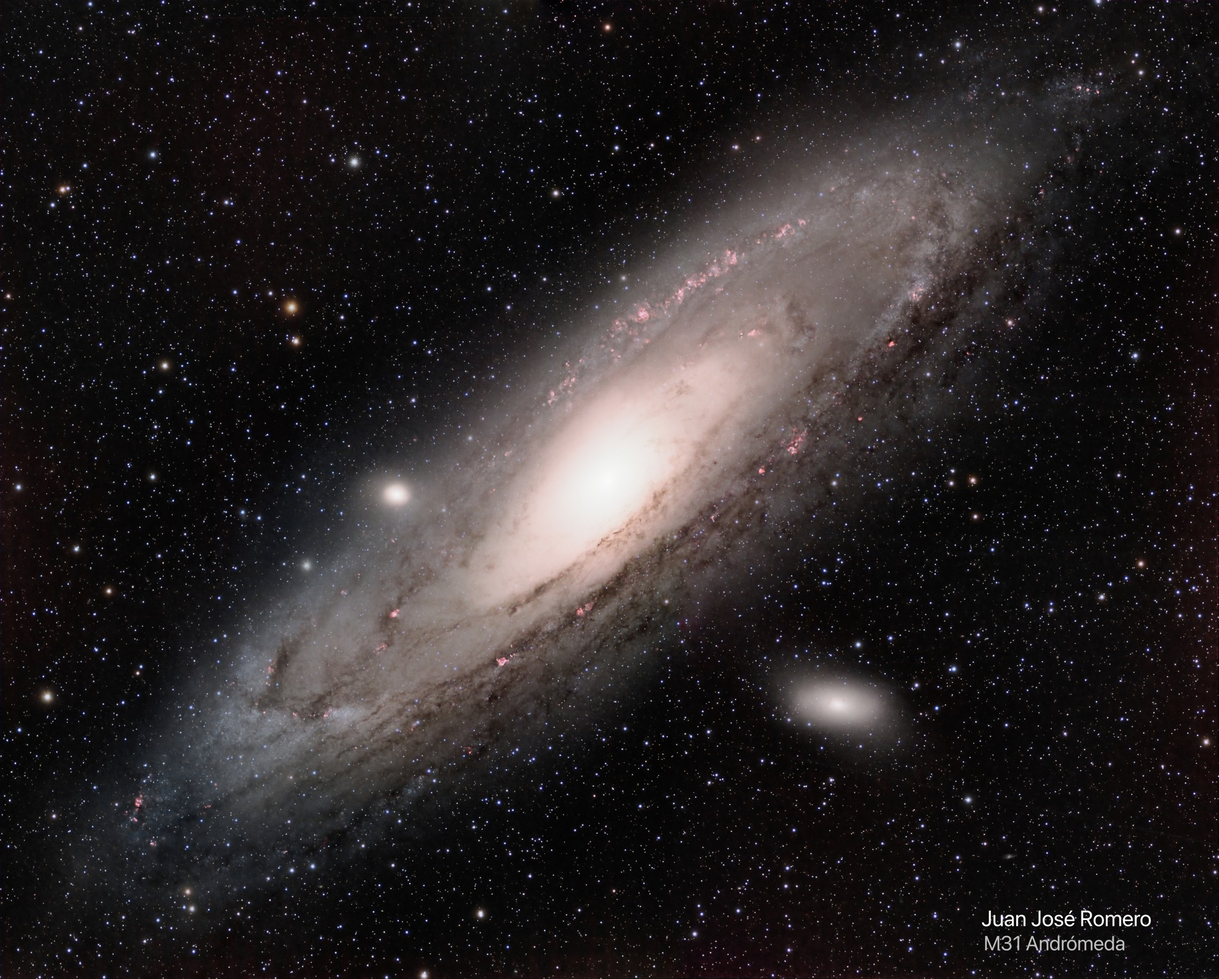
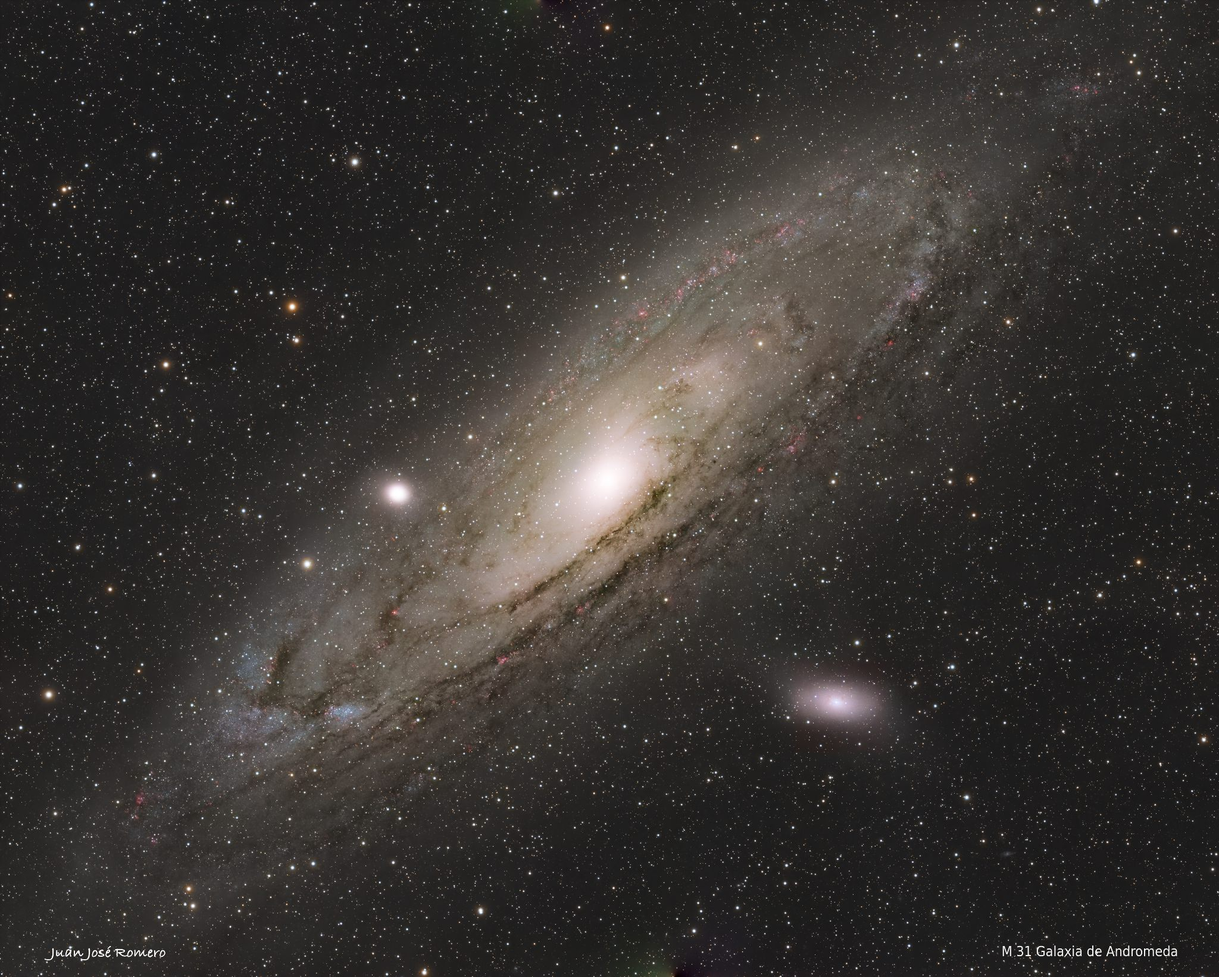
Añade corazones y actualiza la imagen de M31

diff --git a/feedback-worker/src/index.js b/feedback-worker/src/index.js
@@ -2,6 +2,7 @@ const TOOLS = new Set(['visibility', 'planning', 'analyser', 'my-night']);
 const VOTES = new Set(['up', 'down']);
 const REASONS = new Set(['confusing', 'missing', 'broken', 'other']);
 const LANGUAGES = new Set(['ca', 'es', 'en']);
+const ITEM_TYPES = new Set(['photo', 'article']);
 
 const json = (body, status = 200, headers = {}) => new Response(JSON.stringify(body), {
   status,
@@ -67,6 +68,17 @@ const validateFeedback = (input) => {
   if (input?.website) return { error: 'invalid_feedback' };
 
   return { value: { tool, vote, visitorId, language, reason, comment, pagePath } };
+};
+
+const validateReaction = (input) => {
+  const itemType = String(input?.itemType || '');
+  const itemId = String(input?.itemId || '').trim();
+  const visitorId = String(input?.visitorId || '');
+  if (!ITEM_TYPES.has(itemType) || !/^[a-zA-Z0-9][a-zA-Z0-9._()+-]{0,99}$/.test(itemId)) {
+    return { error: 'invalid_reaction' };
+  }
+  if (!/^[a-zA-Z0-9_-]{20,80}$/.test(visitorId)) return { error: 'invalid_visitor' };
+  return { value: { itemType, itemId, visitorId } };
 };
 
 const saveFeedback = async (request, env) => {
@@ -156,18 +168,93 @@ const listFeedback = async (request, env) => {
   });
 };
 
+const saveReaction = async (request, env) => {
+  const cors = corsHeaders(request, env);
+  if (!isAllowedOrigin(request, env)) return json({ error: 'origin_not_allowed' }, 403, cors);
+  if (!env.FEEDBACK_HASH_SECRET) return json({ error: 'service_not_configured' }, 503, cors);
+  let input;
+  try { input = await readBody(request); }
+  catch (error) { return json({ error: error.message === 'payload_too_large' ? error.message : 'invalid_json' }, 400, cors); }
+  const validated = validateReaction(input);
+  if (validated.error) return json({ error: validated.error }, 400, cors);
+  const value = validated.value;
+  const visitorHash = await hashVisitor(value.visitorId, env.FEEDBACK_HASH_SECRET);
+  const now = new Date().toISOString();
+  await env.FEEDBACK_DB.prepare(`
+    INSERT INTO reactions (visitor_hash, item_type, item_id, created_at, updated_at)
+    VALUES (?, ?, ?, ?, ?)
+    ON CONFLICT(visitor_hash, item_type, item_id) DO UPDATE SET
+      deleted_at = NULL, updated_at = excluded.updated_at
+  `).bind(visitorHash, value.itemType, value.itemId, now, now).run();
+  return json({ ok: true, updatedAt: now }, 200, cors);
+};
+
+const withdrawReaction = async (request, env) => {
+  const cors = corsHeaders(request, env);
+  if (!isAllowedOrigin(request, env)) return json({ error: 'origin_not_allowed' }, 403, cors);
+  if (!env.FEEDBACK_HASH_SECRET) return json({ error: 'service_not_configured' }, 503, cors);
+  let input;
+  try { input = await readBody(request); }
+  catch (error) { return json({ error: error.message === 'payload_too_large' ? error.message : 'invalid_json' }, 400, cors); }
+  const validated = validateReaction(input);
+  if (validated.error) return json({ error: validated.error }, 400, cors);
+  const value = validated.value;
+  const visitorHash = await hashVisitor(value.visitorId, env.FEEDBACK_HASH_SECRET);
+  const now = new Date().toISOString();
+  await env.FEEDBACK_DB.prepare(`
+    UPDATE reactions SET deleted_at = ?, updated_at = ?
+    WHERE visitor_hash = ? AND item_type = ? AND item_id = ?
+  `).bind(now, now, visitorHash, value.itemType, value.itemId).run();
+  return json({ ok: true, updatedAt: now }, 200, cors);
+};
+
+const reactionCounts = async (request, env) => {
+  const cors = corsHeaders(request, env);
+  if (!isAllowedOrigin(request, env)) return json({ error: 'origin_not_allowed' }, 403, cors);
+  const url = new URL(request.url);
+  const rawItems = (url.searchParams.get('items') || '').split(',').filter(Boolean).slice(0, 200);
+  const items = rawItems.map((item) => {
+    const separator = item.indexOf(':');
+    return { itemType: item.slice(0, separator), itemId: item.slice(separator + 1), key: item };
+  }).filter(({ itemType, itemId }) => ITEM_TYPES.has(itemType) && /^[a-zA-Z0-9][a-zA-Z0-9._()+-]{0,99}$/.test(itemId));
+  if (!items.length) return json({ counts: {} }, 200, { ...cors, 'cache-control': 'public, max-age=30' });
+  const where = items.map(() => '(item_type = ? AND item_id = ?)').join(' OR ');
+  const bindings = items.flatMap(({ itemType, itemId }) => [itemType, itemId]);
+  const { results = [] } = await env.FEEDBACK_DB.prepare(`
+    SELECT item_type, item_id, COUNT(*) AS total FROM reactions
+    WHERE deleted_at IS NULL AND (${where}) GROUP BY item_type, item_id
+  `).bind(...bindings).all();
+  const counts = Object.fromEntries(items.map(({ key }) => [key, 0]));
+  results.forEach((row) => { counts[`${row.item_type}:${row.item_id}`] = Number(row.total); });
+  return json({ counts }, 200, { ...cors, 'cache-control': 'public, max-age=30' });
+};
+
+const listReactions = async (request, env) => {
+  const authorization = request.headers.get('authorization') || '';
+  const token = authorization.startsWith('Bearer ') ? authorization.slice(7) : '';
+  if (!await secureEqual(token, env.FEEDBACK_ADMIN_TOKEN)) {
+    return json({ error: 'unauthorized' }, 401, { 'cache-control': 'no-store' });
+  }
+  const after = new URL(request.url).searchParams.get('after') || '';
+  const statement = after
+    ? env.FEEDBACK_DB.prepare('SELECT id, item_type, item_id, created_at, updated_at, deleted_at FROM reactions WHERE updated_at > ? ORDER BY updated_at ASC LIMIT 5000').bind(after)
+    : env.FEEDBACK_DB.prepare('SELECT id, item_type, item_id, created_at, updated_at, deleted_at FROM reactions ORDER BY updated_at ASC LIMIT 5000');
+  const { results = [] } = await statement.all();
+  return json({ reactions: results, fetchedAt: new Date().toISOString() }, 200, { 'cache-control': 'no-store' });
+};
+
 export default {
   async fetch(request, env) {
     const url = new URL(request.url);
 
-    if (request.method === 'OPTIONS' && url.pathname === '/v1/feedback') {
+    if (request.method === 'OPTIONS' && (url.pathname === '/v1/feedback' || url.pathname === '/v1/reactions')) {
       const cors = corsHeaders(request, env);
       if (!isAllowedOrigin(request, env)) return new Response(null, { status: 403 });
       return new Response(null, {
         status: 204,
         headers: {
           ...cors,
-          'access-control-allow-methods': 'POST, DELETE, OPTIONS',
+          'access-control-allow-methods': 'GET, POST, DELETE, OPTIONS',
           'access-control-allow-headers': 'content-type',
           'access-control-max-age': '86400',
         },
@@ -176,9 +263,14 @@ export default {
     if (request.method === 'POST' && url.pathname === '/v1/feedback') return saveFeedback(request, env);
     if (request.method === 'DELETE' && url.pathname === '/v1/feedback') return withdrawFeedback(request, env);
     if (request.method === 'GET' && url.pathname === '/v1/feedback') return listFeedback(request, env);
+    if (request.method === 'POST' && url.pathname === '/v1/reactions') return saveReaction(request, env);
+    if (request.method === 'DELETE' && url.pathname === '/v1/reactions') return withdrawReaction(request, env);
+    if (request.method === 'GET' && url.pathname === '/v1/reactions') {
+      return request.headers.has('authorization') ? listReactions(request, env) : reactionCounts(request, env);
+    }
     if (request.method === 'GET' && url.pathname === '/health') return json({ ok: true });
     return json({ error: 'not_found' }, 404);
   },
 };
 
-export { hashVisitor, validateFeedback };
+export { hashVisitor, validateFeedback, validateReaction };

diff --git a/src/styles/global.css b/src/styles/global.css
@@ -182,6 +182,16 @@ main { padding: 1rem 0 4rem; }
 .gallery-theme .photo-card h2, .gallery-theme .page-heading h1 { color: var(--gallery-tone-soft); }
 .photo-card p { margin: .25rem 0; color: var(--color-muted); font-size: .9rem; }
 .photo-card b { color: var(--color-text); }
+.reaction-heart { position: absolute; z-index: 5; top: .45rem; right: .45rem; transition: opacity .14s ease, visibility .14s ease; }
+.reaction-heart button { display: inline-flex; min-width: 2.65rem; height: 1.7rem; align-items: center; justify-content: center; gap: .25rem; padding: .18rem .42rem; border: 1px solid rgba(255,255,255,.34); border-radius: 999px; background: rgba(5,8,14,.72); box-shadow: 0 4px 12px rgba(0,0,0,.26); color: #f3edf0; font: 700 .62rem var(--font-technical); cursor: pointer; backdrop-filter: blur(7px); transition: transform .16s ease, border-color .16s ease, background .16s ease, color .16s ease; }
+.reaction-heart button:hover, .reaction-heart button:focus-visible { border-color: #f28bac; background: rgba(40,12,25,.9); color: #ffb2c9; transform: translateY(-1px); }
+.reaction-heart button[aria-pressed="true"] { border-color: #f06292; background: rgba(93,18,49,.9); color: #ff8fb2; }
+.reaction-heart button:disabled { cursor: wait; opacity: .68; }
+.reaction-heart svg { width: .82rem; height: .82rem; fill: transparent; stroke: currentColor; stroke-linecap: round; stroke-linejoin: round; stroke-width: 1.8; transition: fill .16s ease, transform .16s ease; }
+.reaction-heart button[aria-pressed="true"] svg { fill: currentColor; transform: scale(1.08); }
+.reaction-heart--inline { position: static; display: inline-flex; margin-top: .75rem; }
+.reaction-heart--inline button { background: rgba(24,31,46,.82); }
+body.is-image-lightbox-open .reaction-heart { opacity: 0; pointer-events: none; visibility: hidden; }
 
 .page-heading { margin: .5rem 0 2rem; text-align: center; }
 .page-heading h1 { margin: 0; color: var(--color-accent); font-size: clamp(2rem, 4vw, 2.8rem); }
@@ -405,7 +415,7 @@ main { padding: 1rem 0 4rem; }
 .articles-index-nav a:hover,
 .articles-index-nav a:focus-visible { background: rgba(var(--articles-tone-rgb), .1); color: var(--articles-tone-soft); }
 .articles-index-nav a span { flex: 0 0 auto; color: var(--articles-tone); font-family: var(--font-technical); font-size: .7rem; }
-.article-featured { display: grid; grid-template-columns: 180px minmax(0, 1fr); overflow: hidden; margin-bottom: 1rem; border: 1px solid rgba(var(--articles-tone-rgb), .58); border-radius: 1rem; background: radial-gradient(circle at 96% 8%, rgba(var(--articles-tone-rgb), .12), transparent 42%), var(--color-surface); box-shadow: inset 3px 0 0 var(--articles-tone), 0 0 24px rgba(var(--articles-tone-rgb), .04); scroll-margin-top: 1rem; }
+.article-featured { position: relative; display: grid; grid-template-columns: 180px minmax(0, 1fr); overflow: hidden; margin-bottom: 1rem; border: 1px solid rgba(var(--articles-tone-rgb), .58); border-radius: 1rem; background: radial-gradient(circle at 96% 8%, rgba(var(--articles-tone-rgb), .12), transparent 42%), var(--color-surface); box-shadow: inset 3px 0 0 var(--articles-tone), 0 0 24px rgba(var(--articles-tone-rgb), .04); scroll-margin-top: 1rem; }
 .article-featured__cover { position: relative; min-height: 220px; background: #05070c; }
 .article-featured__cover img { width: 100%; height: 100%; object-fit: cover; }
 .article-featured__cover > span { position: absolute; top: 1rem; left: 1rem; padding: .42rem .62rem; border: 1px solid rgba(var(--articles-tone-rgb), .62); border-radius: 999px; background: rgb(5 7 12 / 76%); color: var(--articles-tone-soft); font-family: var(--font-technical); font-size: .68rem; font-weight: 700; letter-spacing: .05em; text-transform: uppercase; }
@@ -415,7 +425,7 @@ main { padding: 1rem 0 4rem; }
 .article-featured__body > p { grid-area: summary; display: -webkit-box; margin: 0; overflow: hidden; color: var(--color-muted); line-height: 1.6; -webkit-box-orient: vertical; -webkit-line-clamp: 2; }
 .article-featured .article-card__pdfs { grid-area: pdfs; align-content: center; align-self: center; }
 .articles-compact-list { display: grid; gap: .85rem; }
-.article-card { overflow: hidden; border: 1px solid rgba(var(--articles-tone-rgb), .32); border-radius: 1rem; background: radial-gradient(circle at 98% 5%, rgba(var(--articles-tone-rgb), .07), transparent 38%), var(--color-surface); box-shadow: inset 3px 0 0 rgba(var(--articles-tone-rgb), .72); }
+.article-card { position: relative; overflow: hidden; border: 1px solid rgba(var(--articles-tone-rgb), .32); border-radius: 1rem; background: radial-gradient(circle at 98% 5%, rgba(var(--articles-tone-rgb), .07), transparent 38%), var(--color-surface); box-shadow: inset 3px 0 0 rgba(var(--articles-tone-rgb), .72); }
 .article-card__cover { display: block; background: #05070c; }
 .article-card__cover img { display: block; width: 100%; aspect-ratio: 16 / 9; object-fit: cover; object-position: top; }
 .article-card__body { padding: 1.35rem; }

diff --git a/src/content/fotos/m31.md b/src/content/fotos/m31.md
@@ -37,4 +37,16 @@ traduccions:
   en:
     objecte: "M31, Andromeda Galaxy"
     caracteristiques: "A giant barred spiral galaxy similar to the Milky Way, with spiral arms filled with stars, gas and dust that host young star clusters, H II regions and molecular clouds. Its stellar halo contains ancient stars and globular clusters."
+imatges_addicionals:
+  - tipus: "other"
+    fitxer: "M31_previous.jpg"
+    titol: "Versió anterior"
+    descripcio: "Versió anterior de la fotografia principal de la galàxia d'Andròmeda."
+    traduccions:
+      es:
+        titol: "Versión anterior"
+        descripcio: "Versión anterior de la fotografía principal de la galaxia de Andrómeda."
+      en:
+        titol: "Previous version"
+        descripcio: "Previous version of the main photograph of the Andromeda Galaxy."
 ---
